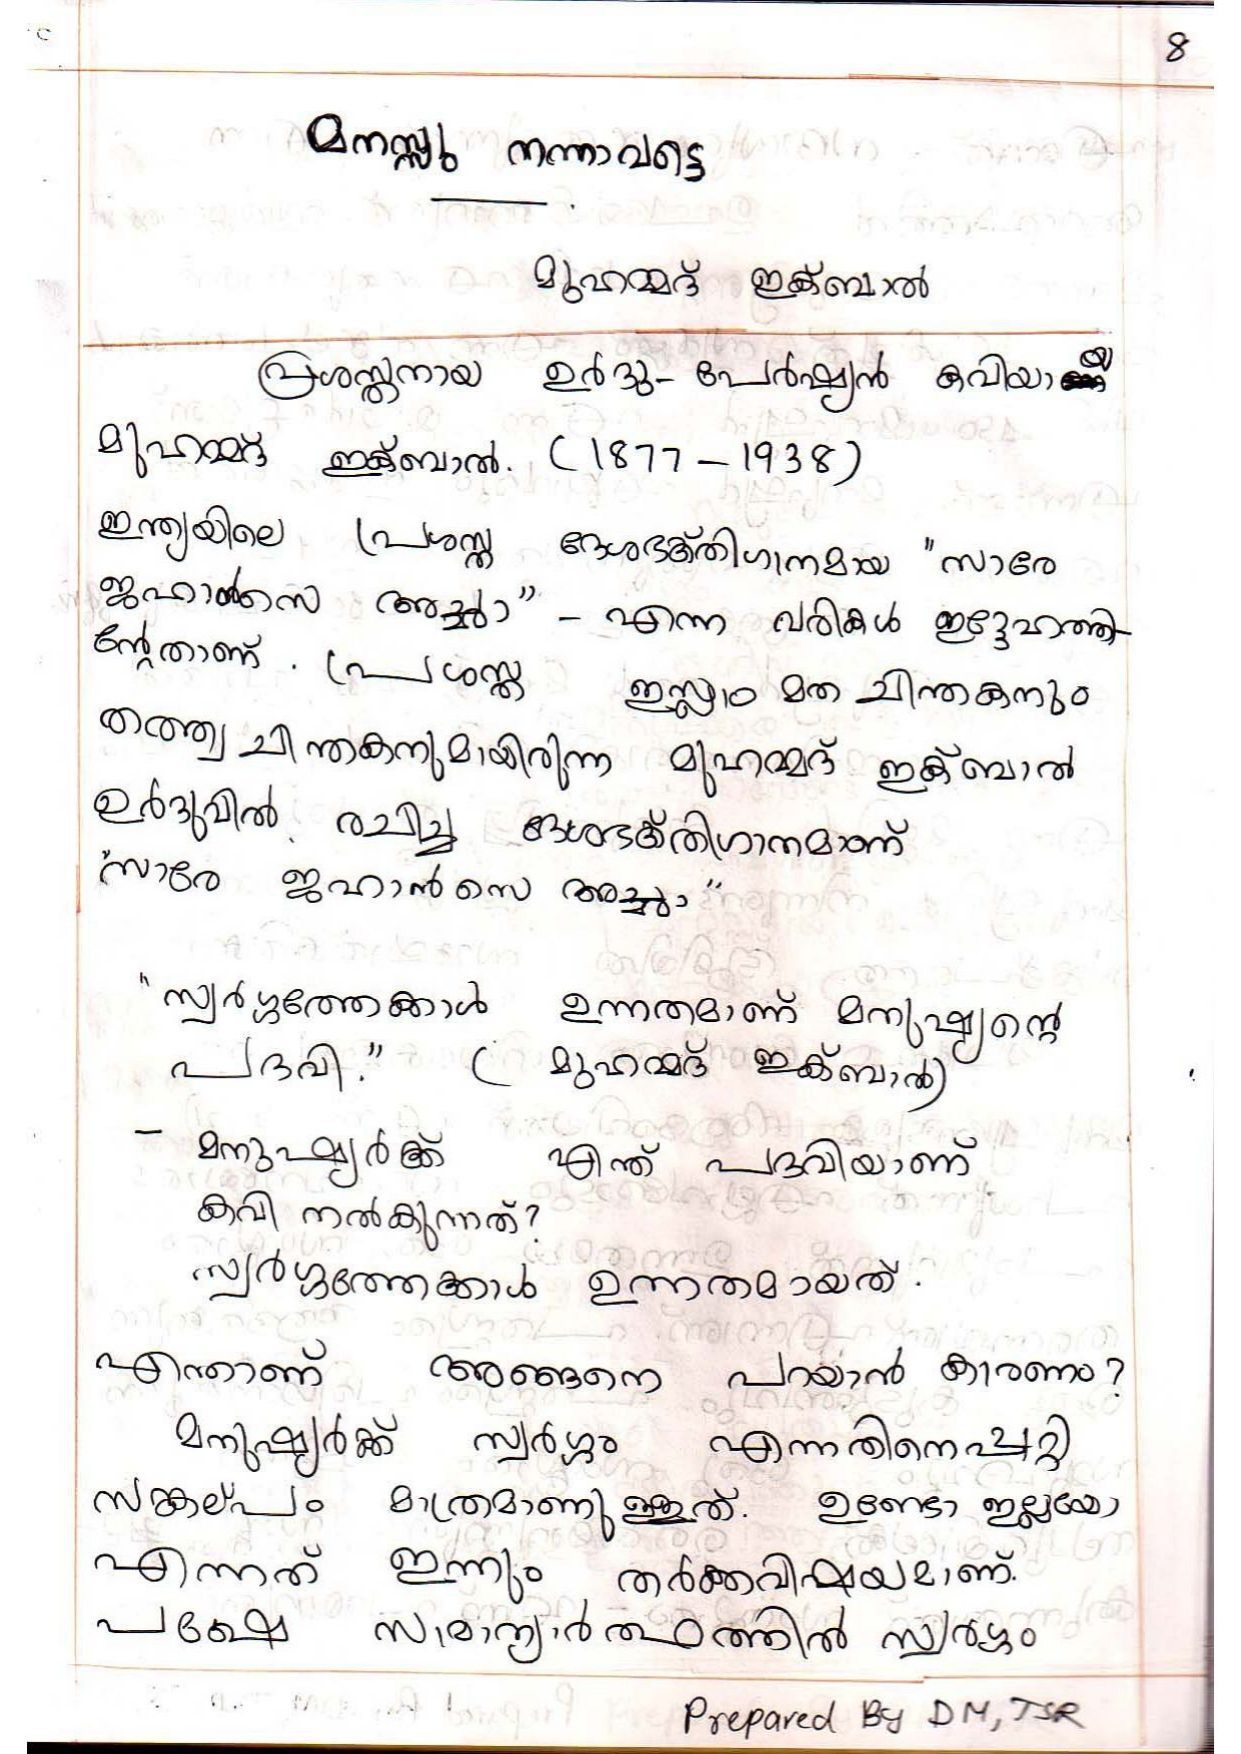
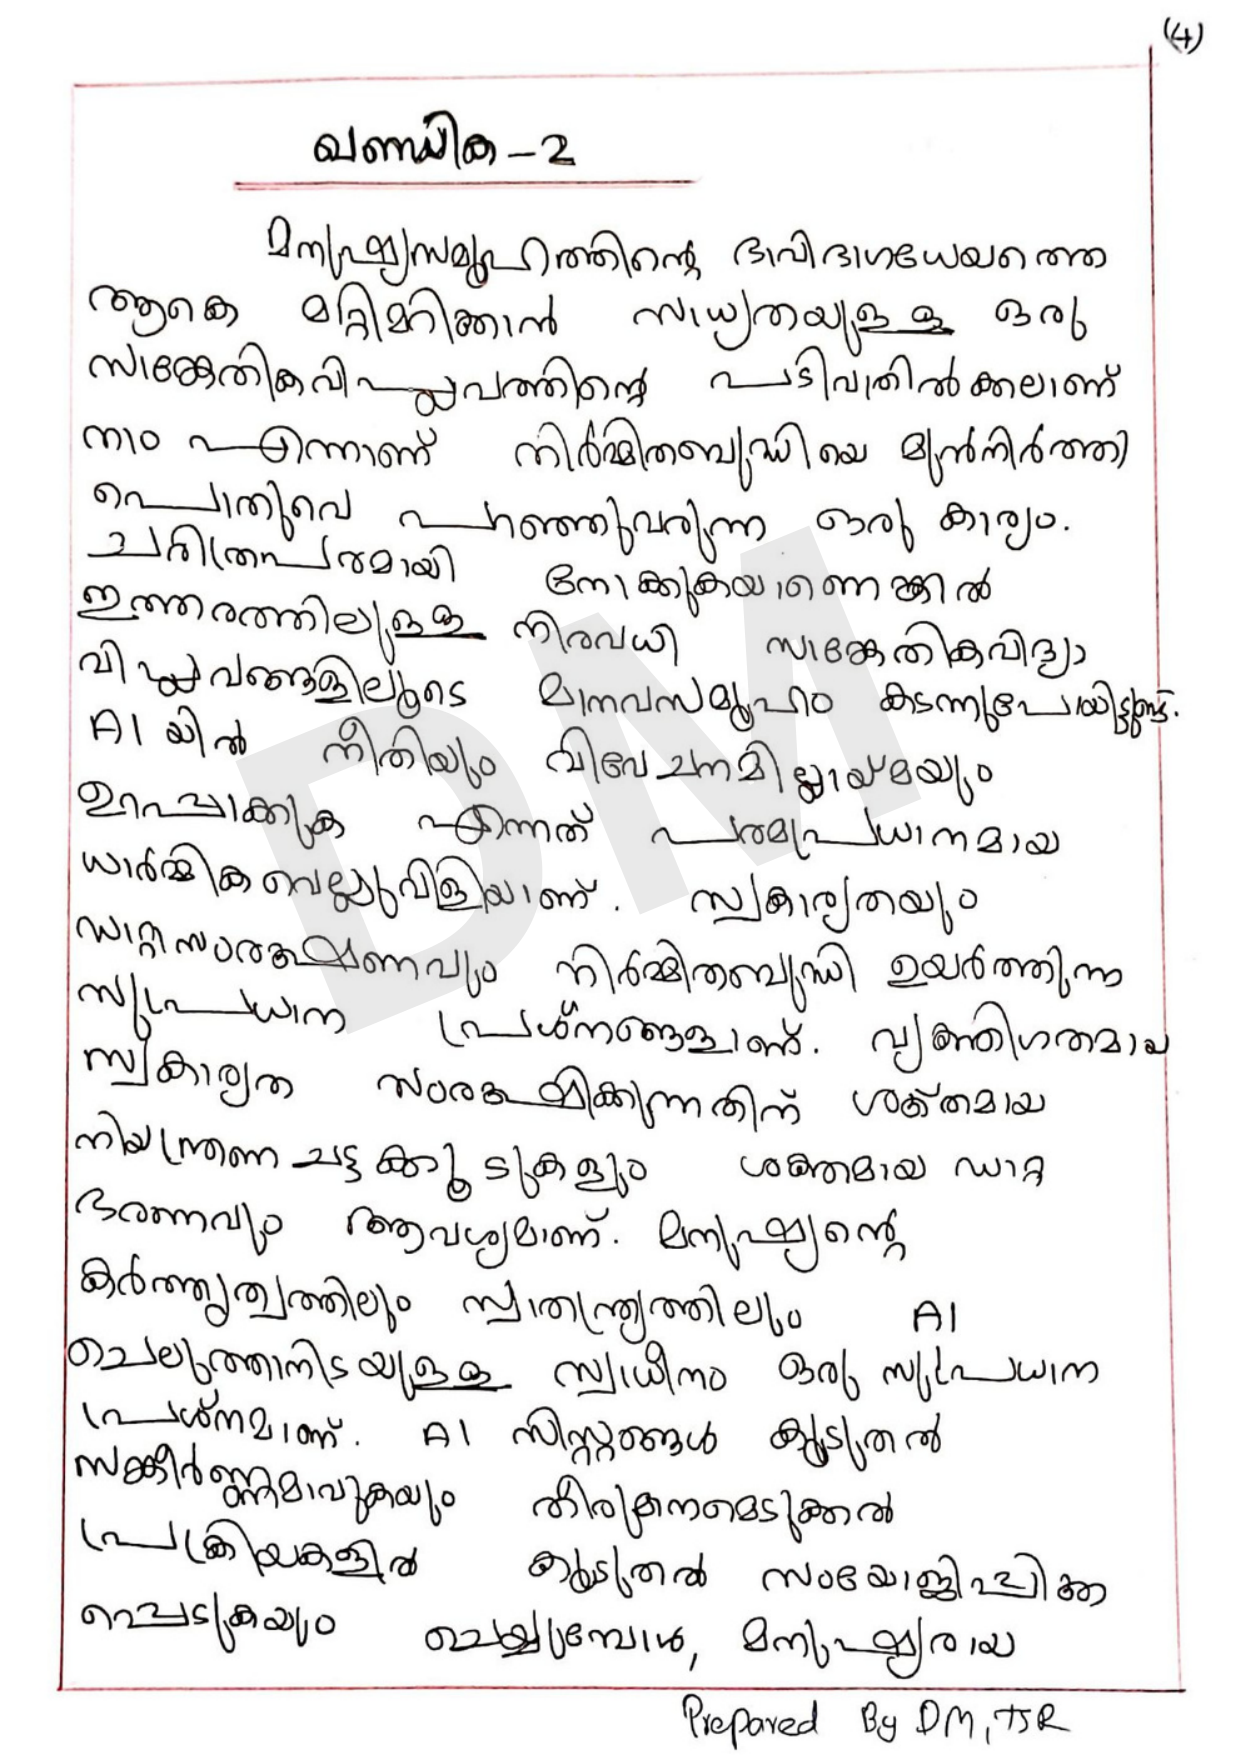
fix(transcription): switch to single-image prompts to prevent repetition loops and reduce token usage

Changed region(s): [[0.0, 0.0, 0.9799, 1.0]]

diff --git a/tools/transcribe_watcher.py b/tools/transcribe_watcher.py
@@ -24,26 +24,8 @@ load_dotenv("d:/PY/printosky/.env", override=True)
 
 WATCH_DIR = r"D:\Divya teacher\Preeksha sahayi"
 TEMP_DIR = r"d:\PY\printosky\_tmp_watcher"
-REF_PAGE_IDX = 9
-
-REF_TEXT = u'''(3)
-ഖണ്ഡിക 1 - ചോദ്യങ്ങൾ
-
-1- അസമത്വത്തിന്റെ ആഘാതം കൂടുതൽ
-ഏറ്റുവാങ്ങുന്നത് സ്ത്രീകളാണ് എന്ന്
-പറയാനുള്ള കാരണമെന്ത്? (1)
-
-2- അഭ്യസ്തവിദ്യരുടെ തൊഴിലില്ലായ്മ സ്ത്രീകളെ
-എങ്ങനെ ബാധിക്കുന്നു? കരിയർ
-ബ്രേക്കിന്റെ കാരണങ്ങളെന്തെല്ലാം? (2)
-
-3- സ്ത്രീകളും സാമൂഹികവികസനവും
-തമ്മിൽ ബന്ധപ്പെട്ടിരിക്കുന്നതെങ്ങനെ? (2)
-
-Prepared By DM, TSR'''
-
 GLOSSARY = u'''
-Use this vocabulary glossary of common terms in this manuscript to resolve handwriting ambiguities:
+Use this vocabulary glossary of common terms in this manuscript to verify spelling and resolve hard-to-read handwriting:
 - "ഹൈസ്കൂൾ" (High School) - often written in flowy cursive.
 - "മലയാളം" (Malayalam)
 - "പരീക്ഷാസഹായി" (Exam Helper)
@@ -61,27 +43,21 @@ Use this vocabulary glossary of common terms in this manuscript to resolve handw
 - "വിവേകോദയം" / "VBHSS" (Vivekodayam School)
 '''
 
-PROMPT = u'''The first image is a sample page of the same handwritten manuscript.
-The exact transcription of the text written in the first image is:
-"""
-%s
-"""
+PROMPT = u'''You are an expert Malayalam manuscript transcriber.
+Your task is to transcribe the handwritten text in the image line-by-line.
 
 Here is a GLOSSARY of terms known to appear in this manuscript. Use it to verify spelling and resolve hard-to-read handwriting:
 """
 %s
 """
 
-Your task is to transcribe the second image (the target image) line-by-line.
-Use the first image and its transcription as a reference to understand the author's handwriting style.
-
 Follow these rules:
 1. Do not translate the Malayalam text. Transcribe it exactly in Malayalam script.
 2. Transcribe any English text in English.
 3. Preserve the layout, paragraph breaks, and line breaks as closely as possible.
 4. If a word or character is completely illegible, write '[illegible]' instead of guessing.
-5. Output ONLY the transcribed text of the second image. Do not include any intro, outro, explanations, or meta-comments.
-''' % (REF_TEXT, GLOSSARY)
+5. Output ONLY the transcribed text of the image. Do not include any intro, outro, explanations, or meta-comments.
+''' % GLOSSARY
 
 def find_reference_pdf(folder):
     # Searches for a PDF that has 'By DM' and 'പരീക്ഷാ' in its name to use as a handwriting reference
@@ -102,7 +78,7 @@ def get_last_transcribed_page(out_path):
             last_page = max(int(m) for m in markers)
     return last_page
 
-def transcribe_pdf(pdf_path, ref_img_path, client):
+def transcribe_pdf(pdf_path, client):
     pdf_name = os.path.basename(pdf_path)
     base_name = os.path.splitext(pdf_name)[0]
     out_path = os.path.join(WATCH_DIR, f"{base_name}_transcript.txt")
@@ -115,9 +91,6 @@ def transcribe_pdf(pdf_path, ref_img_path, client):
     doc = fitz.open(pdf_path)
     total_pages = len(doc)
     print(f"Total pages: {total_pages}")
-    
-    img_ref = Image.open(ref_img_path)
-    img_ref.thumbnail((768, 768))
     
     last_done = get_last_transcribed_page(out_path)
     start_page = last_done + 1
@@ -147,7 +120,7 @@ def transcribe_pdf(pdf_path, ref_img_path, client):
                 try:
                     response = client.models.generate_content(
                         model="models/gemini-3.5-flash",
-                        contents=[img_ref, img_target, PROMPT]
+                        contents=[img_target, PROMPT]
                     )
                     text = response.text
                     success = True
@@ -222,22 +195,7 @@ def main():
 
     while True:
         try:
-            # 1. Use static reference image from assets
-            ref_img_path = os.path.join(os.path.dirname(__file__), "assets", "ref_page.png")
-            if not os.path.exists(ref_img_path):
-                ref_pdf = find_reference_pdf(WATCH_DIR)
-                if not ref_pdf:
-                    print("Warning: Reference PDF (containing 'By DM') not found in watch folder. Waiting...", flush=True)
-                    time.sleep(10)
-                    continue
-                print(f"Extracting visual reference page from {os.path.basename(ref_pdf)}...")
-                ref_doc = fitz.open(ref_pdf)
-                ref_page = ref_doc[REF_PAGE_IDX]
-                ref_pix = ref_page.get_pixmap(dpi=150)
-                ref_pix.save(ref_img_path)
-                ref_doc.close()
-
-            # 2. Scan watch folder for new PDF files
+            # 1. Scan watch folder for new PDF files
             for f in os.listdir(WATCH_DIR):
                 if f.lower().endswith(".pdf"):
                     pdf_path = os.path.join(WATCH_DIR, f)
@@ -247,7 +205,7 @@ def main():
                     # If transcript is not complete, we transcribe (or resume) it!
                     if not is_transcription_complete(pdf_path, transcript_path):
                         # Transcribe the PDF
-                        transcribe_pdf(pdf_path, ref_img_path, client)
+                        transcribe_pdf(pdf_path, client)
                         
         except Exception as e:
             print(f"Watcher loop error: {e}", flush=True)

diff --git a/tools/pdf_tools_server.py b/tools/pdf_tools_server.py
@@ -55,26 +55,8 @@ app = Flask(__name__)
 # ---------------------------------------------------------------------------
 WATCH_DIR = r"D:\Divya teacher\Preeksha sahayi"
 TEMP_DIR = r"d:\PY\printosky\_tmp_watcher"
-REF_PAGE_IDX = 9
-
-REF_TEXT = u'''(3)
-ഖണ്ഡിക 1 - ചോദ്യങ്ങൾ
-
-1- അസമത്വത്തിന്റെ ആഘാതം കൂടുതൽ
-ഏറ്റുവാങ്ങുന്നത് സ്ത്രീകളാണ് എന്ന്
-പറയാനുള്ള കാരണമെന്ത്? (1)
-
-2- അഭ്യസ്തവിദ്യരുടെ തൊഴിലില്ലായ്മ സ്ത്രീകളെ
-എങ്ങനെ ബാധിക്കുന്നു? കരിയർ
-ബ്രേക്കിന്റെ കാരണങ്ങളെന്തെല്ലാം? (2)
-
-3- സ്ത്രീകളും സാമൂഹികവികസനവും
-തമ്മിൽ ബന്ധപ്പെട്ടിരിക്കുന്നതെങ്ങനെ? (2)
-
-Prepared By DM, TSR'''
-
 GLOSSARY = u'''
-Use this vocabulary glossary of common terms in this manuscript to resolve handwriting ambiguities:
+Use this vocabulary glossary of common terms in this manuscript to verify spelling and resolve hard-to-read handwriting:
 - "ഹൈസ്കൂൾ" (High School) - often written in flowy cursive.
 - "മലയാളം" (Malayalam)
 - "പരീക്ഷാസഹായി" (Exam Helper)
@@ -92,27 +74,21 @@ Use this vocabulary glossary of common terms in this manuscript to resolve handw
 - "വിവേകോദയം" / "VBHSS" (Vivekodayam School)
 '''
 
-PROMPT = u'''The first image is a sample page of the same handwritten manuscript.
-The exact transcription of the text written in the first image is:
-"""
-%s
-"""
+PROMPT = u'''You are an expert Malayalam manuscript transcriber.
+Your task is to transcribe the handwritten text in the image line-by-line.
 
 Here is a GLOSSARY of terms known to appear in this manuscript. Use it to verify spelling and resolve hard-to-read handwriting:
 """
 %s
 """
 
-Your task is to transcribe the second image (the target image).
-Use the first image and its transcription as a reference to understand the author's handwriting style.
-
 Follow these rules:
 1. Do not translate the Malayalam text. Transcribe it exactly in Malayalam script.
 2. Transcribe any English text in English.
 3. Do NOT create a new line for every physical line of text written on the page. Instead, flow the sentences continuously. Only create a new line/paragraph when there is a clear paragraph break (separated by a blank line) or a change in question section. Use full stops (.), question marks (?), exclamation marks (!), and other common elements to determine sentence completion and continue writing on the same line.
 4. If a word or character is completely illegible, write '[illegible]' instead of guessing.
-5. Output ONLY the transcribed text of the second image. Do not include any intro, outro, explanations, or meta-comments.
-''' % (REF_TEXT, GLOSSARY)
+5. Output ONLY the transcribed text of the image. Do not include any intro, outro, explanations, or meta-comments.
+''' % GLOSSARY
 
 console_logs = []
 active_file = None
@@ -240,7 +216,7 @@ def find_reference_pdf(folder):
             return os.path.join(folder, f)
     return None
 
-def transcribe_pdf_job(pdf_path, ref_img_path, client, mode):
+def transcribe_pdf_job(pdf_path, client, mode):
     global active_file, active_page, active_total_pages
     pdf_name = os.path.basename(pdf_path)
     base_name = os.path.splitext(pdf_name)[0]
@@ -259,9 +235,6 @@ def transcribe_pdf_job(pdf_path, ref_img_path, client, mode):
         doc = fitz.open(pdf_path)
         total_pages = len(doc)
         active_total_pages = total_pages
-        
-        img_ref = Image.open(ref_img_path)
-        img_ref.thumbnail((768, 768))
         
         last_done = get_last_transcribed_page(out_path)
         start_page = last_done + 1
@@ -289,7 +262,7 @@ def transcribe_pdf_job(pdf_path, ref_img_path, client, mode):
                     try:
                         response = client.models.generate_content(
                             model=model_name,
-                            contents=[img_ref, img_target, PROMPT]
+                            contents=[img_target, PROMPT]
                         )
                         text = response.text
                         success = True
@@ -357,15 +330,6 @@ def watcher_thread_fn():
                 time.sleep(10)
                 continue
                 
-            ref_img_path = os.path.join(TEMP_DIR, "ref_page.png")
-            if not os.path.exists(ref_img_path):
-                log_to_dashboard("Extracting visual reference page from Exam Helper...")
-                ref_doc = fitz.open(ref_pdf)
-                ref_page = ref_doc[REF_PAGE_IDX]
-                ref_pix = ref_page.get_pixmap(dpi=150)
-                ref_pix.save(ref_img_path)
-                ref_doc.close()
-                
             cfg = get_config_modes()
             
             # Scan WATCH_DIR for PDFs
@@ -378,7 +342,7 @@ def watcher_thread_fn():
                     if not is_transcription_complete(pdf_path, transcript_path):
                         # Get mode: default to 'standard' (Flash-Lite)
                         mode = cfg.get(f, "standard")
-                        transcribe_pdf_job(pdf_path, ref_img_path, client, mode)
+                        transcribe_pdf_job(pdf_path, client, mode)
                         break # process one PDF at a time
                         
         except Exception as e:

diff --git a/tools/cloud_transcription_worker.py b/tools/cloud_transcription_worker.py
@@ -55,26 +55,8 @@ TEMP_DIR = r"d:\PY\printosky\_tmp_watcher"
 if not os.path.exists(TEMP_DIR):
     os.makedirs(TEMP_DIR)
 
-REF_PAGE_IDX = 9
-
-REF_TEXT = u'''(3)
-ഖണ്ഡിക 1 - ചോദ്യങ്ങൾ
-
-1- അസമത്വത്തിന്റെ ആഘാതം കൂടുതൽ
-ഏറ്റുവാങ്ങുന്നത് സ്ത്രീകളാണ് എന്ന്
-പറയാനുള്ള കാരണമെന്ത്? (1)
-
-2- അഭ്യസ്തവിദ്യരുടെ തൊഴിലില്ലായ്മ സ്ത്രീകളെ
-എങ്ങനെ ബാധിക്കുന്നു? കരിയർ
-ബ്രേക്കിന്റെ കാരണങ്ങളെന്തെല്ലാം? (2)
-
-3- സ്ത്രീകളും സാമൂഹികവികസനവും
-തമ്മിൽ ബന്ധപ്പെട്ടിരിക്കുന്നതെങ്ങനെ? (2)
-
-Prepared By DM, TSR'''
-
 GLOSSARY = u'''
-Use this vocabulary glossary of common terms in this manuscript to resolve handwriting ambiguities:
+Use this vocabulary glossary of common terms in this manuscript to verify spelling and resolve hard-to-read handwriting:
 - "ഹൈസ്കൂൾ" (High School) - often written in flowy cursive.
 - "മലയാളം" (Malayalam)
 - "പരീക്ഷാസഹായി" (Exam Helper)
@@ -92,27 +74,21 @@ Use this vocabulary glossary of common terms in this manuscript to resolve handw
 - "വിവേകോദയം" / "VBHSS" (Vivekodayam School)
 '''
 
-PROMPT_TEMPLATE = u'''The first image is a sample page of the same handwritten manuscript.
-The exact transcription of the text written in the first image is:
-"""
-%s
-"""
+PROMPT_TEMPLATE = u'''You are an expert Malayalam manuscript transcriber.
+Your task is to transcribe the handwritten text in the image line-by-line.
 
 Here is a GLOSSARY of terms known to appear in this manuscript. Use it to verify spelling and resolve hard-to-read handwriting:
 """
 %s
 """
 
-Your task is to transcribe the second image (the target image).
-Use the first image and its transcription as a reference to understand the author's handwriting style.
-
 Follow these rules:
 1. Do not translate the Malayalam text. Transcribe it exactly in Malayalam script.
 2. Transcribe any English text in English.
 3. Do NOT create a new line for every physical line of text written on the page. Instead, flow the sentences continuously. Only create a new line/paragraph when there is a clear paragraph break (separated by a blank line) or a change in question section. Use full stops (.), question marks (?), exclamation marks (!), and other common elements to determine sentence completion and continue writing on the same line.
 4. If a word or character is completely illegible, write '[illegible]' instead of guessing.
-5. Output ONLY the transcribed text of the second image. Do not include any intro, outro, explanations, or meta-comments.
-''' % (REF_TEXT, GLOSSARY)
+5. Output ONLY the transcribed text of the image. Do not include any intro, outro, explanations, or meta-comments.
+''' % GLOSSARY
 
 CHILLU_MAP = {
     "\u0d7b": "\u0d23\u0d4d\u200d", # ൺ
@@ -148,20 +124,13 @@ def process_transcription_job(job):
         sb.table("manuscript_transcripts").update({"status": "failed"}).eq("id", job_id).execute()
         return
 
-    # 2. Load static reference page
-    ref_img_path = os.path.join(os.path.dirname(__file__), "assets", "ref_page.png")
+    # 2. Open PDF
     try:
         doc = fitz.open(pdf_temp_path)
         total_pages = len(doc)
-        
-        img_ref = Image.open(ref_img_path)
-        img_ref.thumbnail((768, 768))
-        log.info("Loaded static reference page from assets.")
     except Exception as e:
-        log.error(f"Failed to load reference page: {e}")
+        log.error(f"Failed to open PDF: {e}")
         sb.table("manuscript_transcripts").update({"status": "failed"}).eq("id", job_id).execute()
-        if 'doc' in locals():
-            doc.close()
         return
 
     # 3. Transcribe page by page
@@ -198,7 +167,7 @@ def process_transcription_job(job):
                 try:
                     response = client.models.generate_content(
                         model=model_name,
-                        contents=[img_ref, img_target, PROMPT_TEMPLATE]
+                        contents=[img_target, PROMPT_TEMPLATE]
                     )
                     text = response.text
                     success = True
